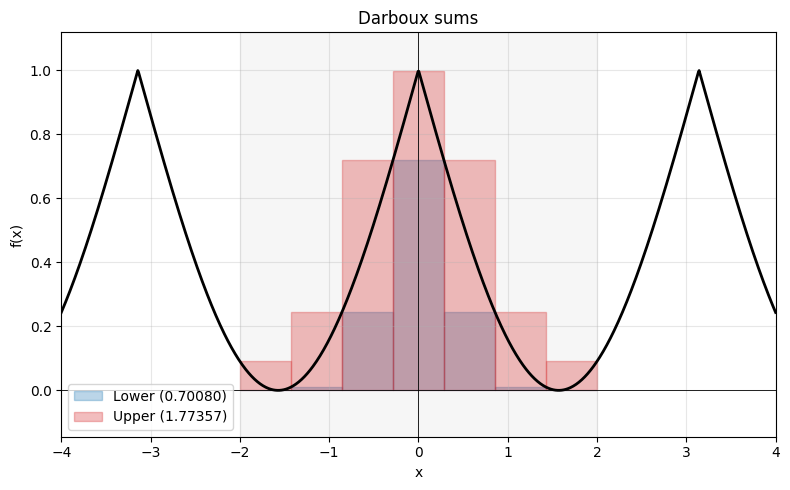
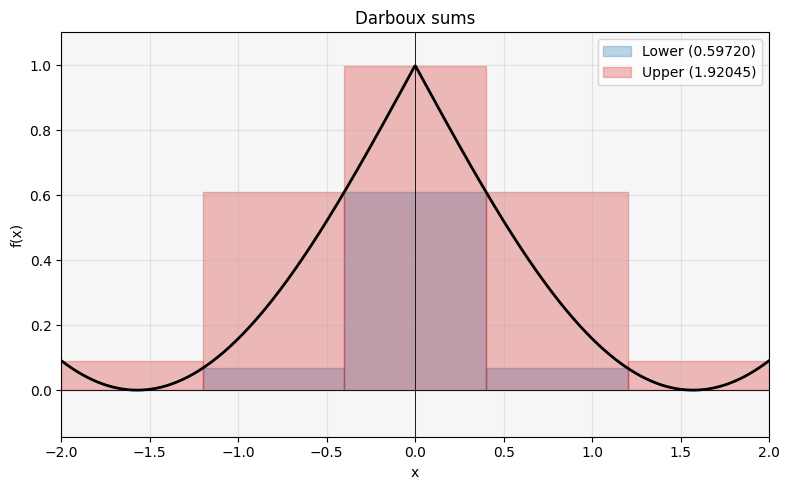
update the riemann and darboux illustrations

diff --git a/notebooks/riemann-darboux-sums.py b/notebooks/riemann-darboux-sums.py
@@ -49,8 +49,8 @@ def _(mo):
 
 @app.cell(hide_code=True)
 def _(mo):
-    x_min = mo.ui.number(value=-4.0, step=0.1, label=r"$x_{\min}$")
-    x_max = mo.ui.number(value=4.0, step=0.1, label=r"$x_{\max}$")
+    x_min = mo.ui.number(value=-1.5, step=0.1, label=r"$x_{\min}$")
+    x_max = mo.ui.number(value=1.5, step=0.1, label=r"$x_{\max}$")
     resolution = mo.ui.slider(
         start=100, stop=5000, step=100, value=1000, label="points", show_value=True
     )
@@ -77,7 +77,7 @@ def _(mo):
     a = mo.ui.number(value=-2.0, step=0.1, label="$a$")
     b = mo.ui.number(value=2.0, step=0.1, label="$b$")
     n_parts = mo.ui.slider(
-        start=1, stop=200, step=1, value=7, label="$n$", show_value=True,
+        start=1, stop=200, step=1, value=3, label="$n$", show_value=True,
     )
     darboux_sel = mo.ui.multiselect(
         options=["Lower", "Upper"],
@@ -242,7 +242,7 @@ def _(darboux_sel, plt, sum_data, y_max, y_min, y_override):
                 color=colors[_kind], alpha=0.3, edgecolor=colors[_kind],
                 label=f"{_kind} ({s:.5f})",
             )
-    
+
         if y_override.value:
             ylo, yhi = sorted([y_min.value, y_max.value])
             if yhi - ylo < 1e-9:
@@ -250,10 +250,10 @@ def _(darboux_sel, plt, sum_data, y_max, y_min, y_override):
             ax.set_ylim(ylo, yhi)
         else:
             ax.set_ylim(*sum_data["y_auto"])
-    
+
         if darboux_sel.value:
             ax.legend(loc="best")
-    
+
         fig.tight_layout()
         return fig
 
@@ -276,9 +276,9 @@ def _(plt, riemann_sel, sum_data, y_max, y_min, y_override):
         ax.set_xlim(*sum_data["plot_xlim"])
 
         colors = {
-            "Left": "tab:green",
-            "Right": "tab:orange",
-            "Midpoint": "tab:purple",
+            "Left": "tab:blue",
+            "Right": "tab:red",
+            "Midpoint": "tab:green",
         }
         for kind in riemann_sel.value:
             h = sum_data["heights"][kind]
@@ -288,7 +288,7 @@ def _(plt, riemann_sel, sum_data, y_max, y_min, y_override):
                 color=colors[kind], alpha=0.3, edgecolor=colors[kind],
                 label=f"{kind} ({s:.5f})",
             )
-    
+
         if y_override.value:
             ylo, yhi = sorted([y_min.value, y_max.value])
             if yhi - ylo < 1e-9:
@@ -296,10 +296,10 @@ def _(plt, riemann_sel, sum_data, y_max, y_min, y_override):
             ax.set_ylim(ylo, yhi)
         else:
             ax.set_ylim(*sum_data["y_auto"])
-    
+
         if riemann_sel.value:
             ax.legend(loc="best")
-    
+
         fig.tight_layout()
         return fig
 
